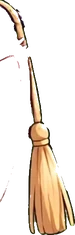
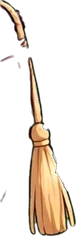
Update v6 code and sync index.html

diff --git a/apps-script/Script.html b/apps-script/Script.html
@@ -276,7 +276,7 @@ let session=null;
   G.CatRig = Rig;
 })(window);
 
-CatRig.ATLAS={"flower_far":[0,0,1024,1024],"flower_mid":[28,46,969,942],"backpack":[110,500,340,230],"books":[81,700,878,324],"tail":[725,518,229,231],"body":[200,525,650,300],"ear_l_back":[178,200,182,350],"ear_r_back":[650,169,131,226],"head":[240,215,499,440],"cheek":[295,537,363,68],"nose":[440,530,90,40],"eye_white_l":[298,432,140,131],"eye_white_r":[503,426,140,135],"iris_l":[341,446,86,94],"iris_r":[539,430,87,96],"eye_highlight_l":[363,468,48,56],"eye_highlight_r":[539,454,69,53],"eyelid_l":[293,427,150,145],"eyelid_r":[498,421,150,145],"eyes_smile":[331,478,280,24],"eyes_sad":[298,426,345,138],"mouth_smile":[454,576,48,8],"mouth_open":[440,550,82,45],"mouth_sad":[456,580,44,9],"mouth_neutral":[465,581,28,3],"brow_worry":[349,448,248,16],"hat":[175,83,563,215],"tassel":[710,160,75,235],"paw_l_rest":[340,715,135,82],"paw_r_rest":[475,715,135,90],"eye_mask_l":[298,432,140,131],"eye_mask_r":[503,426,140,135]};
+CatRig.ATLAS={"flower_far":[0,0,1024,1024],"flower_mid":[28,46,969,942],"backpack":[110,500,340,230],"books":[81,700,878,324],"tail":[789,518,116,195],"body":[200,525,650,300],"ear_l_back":[193,239,129,238],"ear_r_back":[649,195,92,198],"head":[240,215,499,440],"cheek":[295,537,363,68],"nose":[440,530,90,40],"eye_white_l":[298,432,140,131],"eye_white_r":[503,426,140,135],"iris_l":[341,446,86,94],"iris_r":[539,430,87,96],"eye_highlight_l":[363,468,48,56],"eye_highlight_r":[539,454,69,53],"eyelid_l":[293,427,150,145],"eyelid_r":[498,421,150,145],"eyes_smile":[331,478,280,24],"eyes_sad":[298,426,345,138],"mouth_smile":[454,576,48,8],"mouth_open":[440,550,82,45],"mouth_sad":[456,580,44,9],"mouth_neutral":[465,581,28,3],"brow_worry":[349,448,248,16],"hat":[174,85,549,212],"tassel":[709,159,76,236],"paw_l_rest":[340,715,135,82],"paw_r_rest":[475,715,135,90],"eye_mask_l":[298,432,140,131],"eye_mask_r":[503,426,140,135]};
[1 lines of base64/hex data omitted]
 
 const RIG_BASE=ASSET_BASE+'rig/img/';

diff --git a/index.html b/index.html
@@ -660,7 +660,7 @@ let session=null;
   G.CatRig = Rig;
 })(window);
 
-CatRig.ATLAS={"flower_far":[0,0,1024,1024],"flower_mid":[28,46,969,942],"backpack":[110,500,340,230],"books":[81,700,878,324],"tail":[725,518,229,231],"body":[200,525,650,300],"ear_l_back":[178,200,182,350],"ear_r_back":[650,169,131,226],"head":[240,215,499,440],"cheek":[295,537,363,68],"nose":[440,530,90,40],"eye_white_l":[298,432,140,131],"eye_white_r":[503,426,140,135],"iris_l":[341,446,86,94],"iris_r":[539,430,87,96],"eye_highlight_l":[363,468,48,56],"eye_highlight_r":[539,454,69,53],"eyelid_l":[293,427,150,145],"eyelid_r":[498,421,150,145],"eyes_smile":[331,478,280,24],"eyes_sad":[298,426,345,138],"mouth_smile":[454,576,48,8],"mouth_open":[440,550,82,45],"mouth_sad":[456,580,44,9],"mouth_neutral":[465,581,28,3],"brow_worry":[349,448,248,16],"hat":[175,83,563,215],"tassel":[710,160,75,235],"paw_l_rest":[340,715,135,82],"paw_r_rest":[475,715,135,90],"eye_mask_l":[298,432,140,131],"eye_mask_r":[503,426,140,135]};
+CatRig.ATLAS={"flower_far":[0,0,1024,1024],"flower_mid":[28,46,969,942],"backpack":[110,500,340,230],"books":[81,700,878,324],"tail":[789,518,116,195],"body":[200,525,650,300],"ear_l_back":[193,239,129,238],"ear_r_back":[649,195,92,198],"head":[240,215,499,440],"cheek":[295,537,363,68],"nose":[440,530,90,40],"eye_white_l":[298,432,140,131],"eye_white_r":[503,426,140,135],"iris_l":[341,446,86,94],"iris_r":[539,430,87,96],"eye_highlight_l":[363,468,48,56],"eye_highlight_r":[539,454,69,53],"eyelid_l":[293,427,150,145],"eyelid_r":[498,421,150,145],"eyes_smile":[331,478,280,24],"eyes_sad":[298,426,345,138],"mouth_smile":[454,576,48,8],"mouth_open":[440,550,82,45],"mouth_sad":[456,580,44,9],"mouth_neutral":[465,581,28,3],"brow_worry":[349,448,248,16],"hat":[174,85,549,212],"tassel":[709,159,76,236],"paw_l_rest":[340,715,135,82],"paw_r_rest":[475,715,135,90],"eye_mask_l":[298,432,140,131],"eye_mask_r":[503,426,140,135]};
[1 lines of base64/hex data omitted]
 
 const RIG_BASE=ASSET_BASE+'rig/img/';

diff --git a/preview-index.html b/preview-index.html
@@ -660,7 +660,7 @@ let session=null;
   G.CatRig = Rig;
 })(window);
 
-CatRig.ATLAS={"flower_far":[0,0,1024,1024],"flower_mid":[28,46,969,942],"backpack":[110,500,340,230],"books":[81,700,878,324],"tail":[725,518,229,231],"body":[200,525,650,300],"ear_l_back":[178,200,182,350],"ear_r_back":[650,169,131,226],"head":[240,215,499,440],"cheek":[295,537,363,68],"nose":[440,530,90,40],"eye_white_l":[298,432,140,131],"eye_white_r":[503,426,140,135],"iris_l":[341,446,86,94],"iris_r":[539,430,87,96],"eye_highlight_l":[363,468,48,56],"eye_highlight_r":[539,454,69,53],"eyelid_l":[293,427,150,145],"eyelid_r":[498,421,150,145],"eyes_smile":[331,478,280,24],"eyes_sad":[298,426,345,138],"mouth_smile":[454,576,48,8],"mouth_open":[440,550,82,45],"mouth_sad":[456,580,44,9],"mouth_neutral":[465,581,28,3],"brow_worry":[349,448,248,16],"hat":[175,83,563,215],"tassel":[710,160,75,235],"paw_l_rest":[340,715,135,82],"paw_r_rest":[475,715,135,90],"eye_mask_l":[298,432,140,131],"eye_mask_r":[503,426,140,135]};
+CatRig.ATLAS={"flower_far":[0,0,1024,1024],"flower_mid":[28,46,969,942],"backpack":[110,500,340,230],"books":[81,700,878,324],"tail":[789,518,116,195],"body":[200,525,650,300],"ear_l_back":[193,239,129,238],"ear_r_back":[649,195,92,198],"head":[240,215,499,440],"cheek":[295,537,363,68],"nose":[440,530,90,40],"eye_white_l":[298,432,140,131],"eye_white_r":[503,426,140,135],"iris_l":[341,446,86,94],"iris_r":[539,430,87,96],"eye_highlight_l":[363,468,48,56],"eye_highlight_r":[539,454,69,53],"eyelid_l":[293,427,150,145],"eyelid_r":[498,421,150,145],"eyes_smile":[331,478,280,24],"eyes_sad":[298,426,345,138],"mouth_smile":[454,576,48,8],"mouth_open":[440,550,82,45],"mouth_sad":[456,580,44,9],"mouth_neutral":[465,581,28,3],"brow_worry":[349,448,248,16],"hat":[174,85,549,212],"tassel":[709,159,76,236],"paw_l_rest":[340,715,135,82],"paw_r_rest":[475,715,135,90],"eye_mask_l":[298,432,140,131],"eye_mask_r":[503,426,140,135]};
[1 lines of base64/hex data omitted]
 
 const RIG_BASE=ASSET_BASE+'rig/img/';

diff --git a/README.md b/README.md
@@ -41,3 +41,6 @@ Mã lớp **ABCDEFGH**, PIN **1234** → vào được. Nhập gì khác → mè
 - Mặt: gõ (miệng mở/cười), dán (ngạc nhiên + giật), sai PIN (buồn + lắc đầu), gửi xong (mắt cười + nhảy). Cảnh bay + logo vẫn dùng video.
 - Upload thêm thư mục `assets/rig/img/` (30 file .webp) lên repo, cùng chỗ với `video/`.
 - Chưa có: tay gõ, laptop, điện thoại (chờ lớp ảnh sửa). Tai/đuôi/mũ đang dùng lớp tạm, sẽ thay khi có bản sửa (chỉ cần ghi đè file cùng tên).
+
+## Bản 6
+- Thay tai, đuôi, mũ, tua bằng bản sửa (fix3), làm mịn viền. Ghi đè lại `assets/rig/img/` trên repo.
